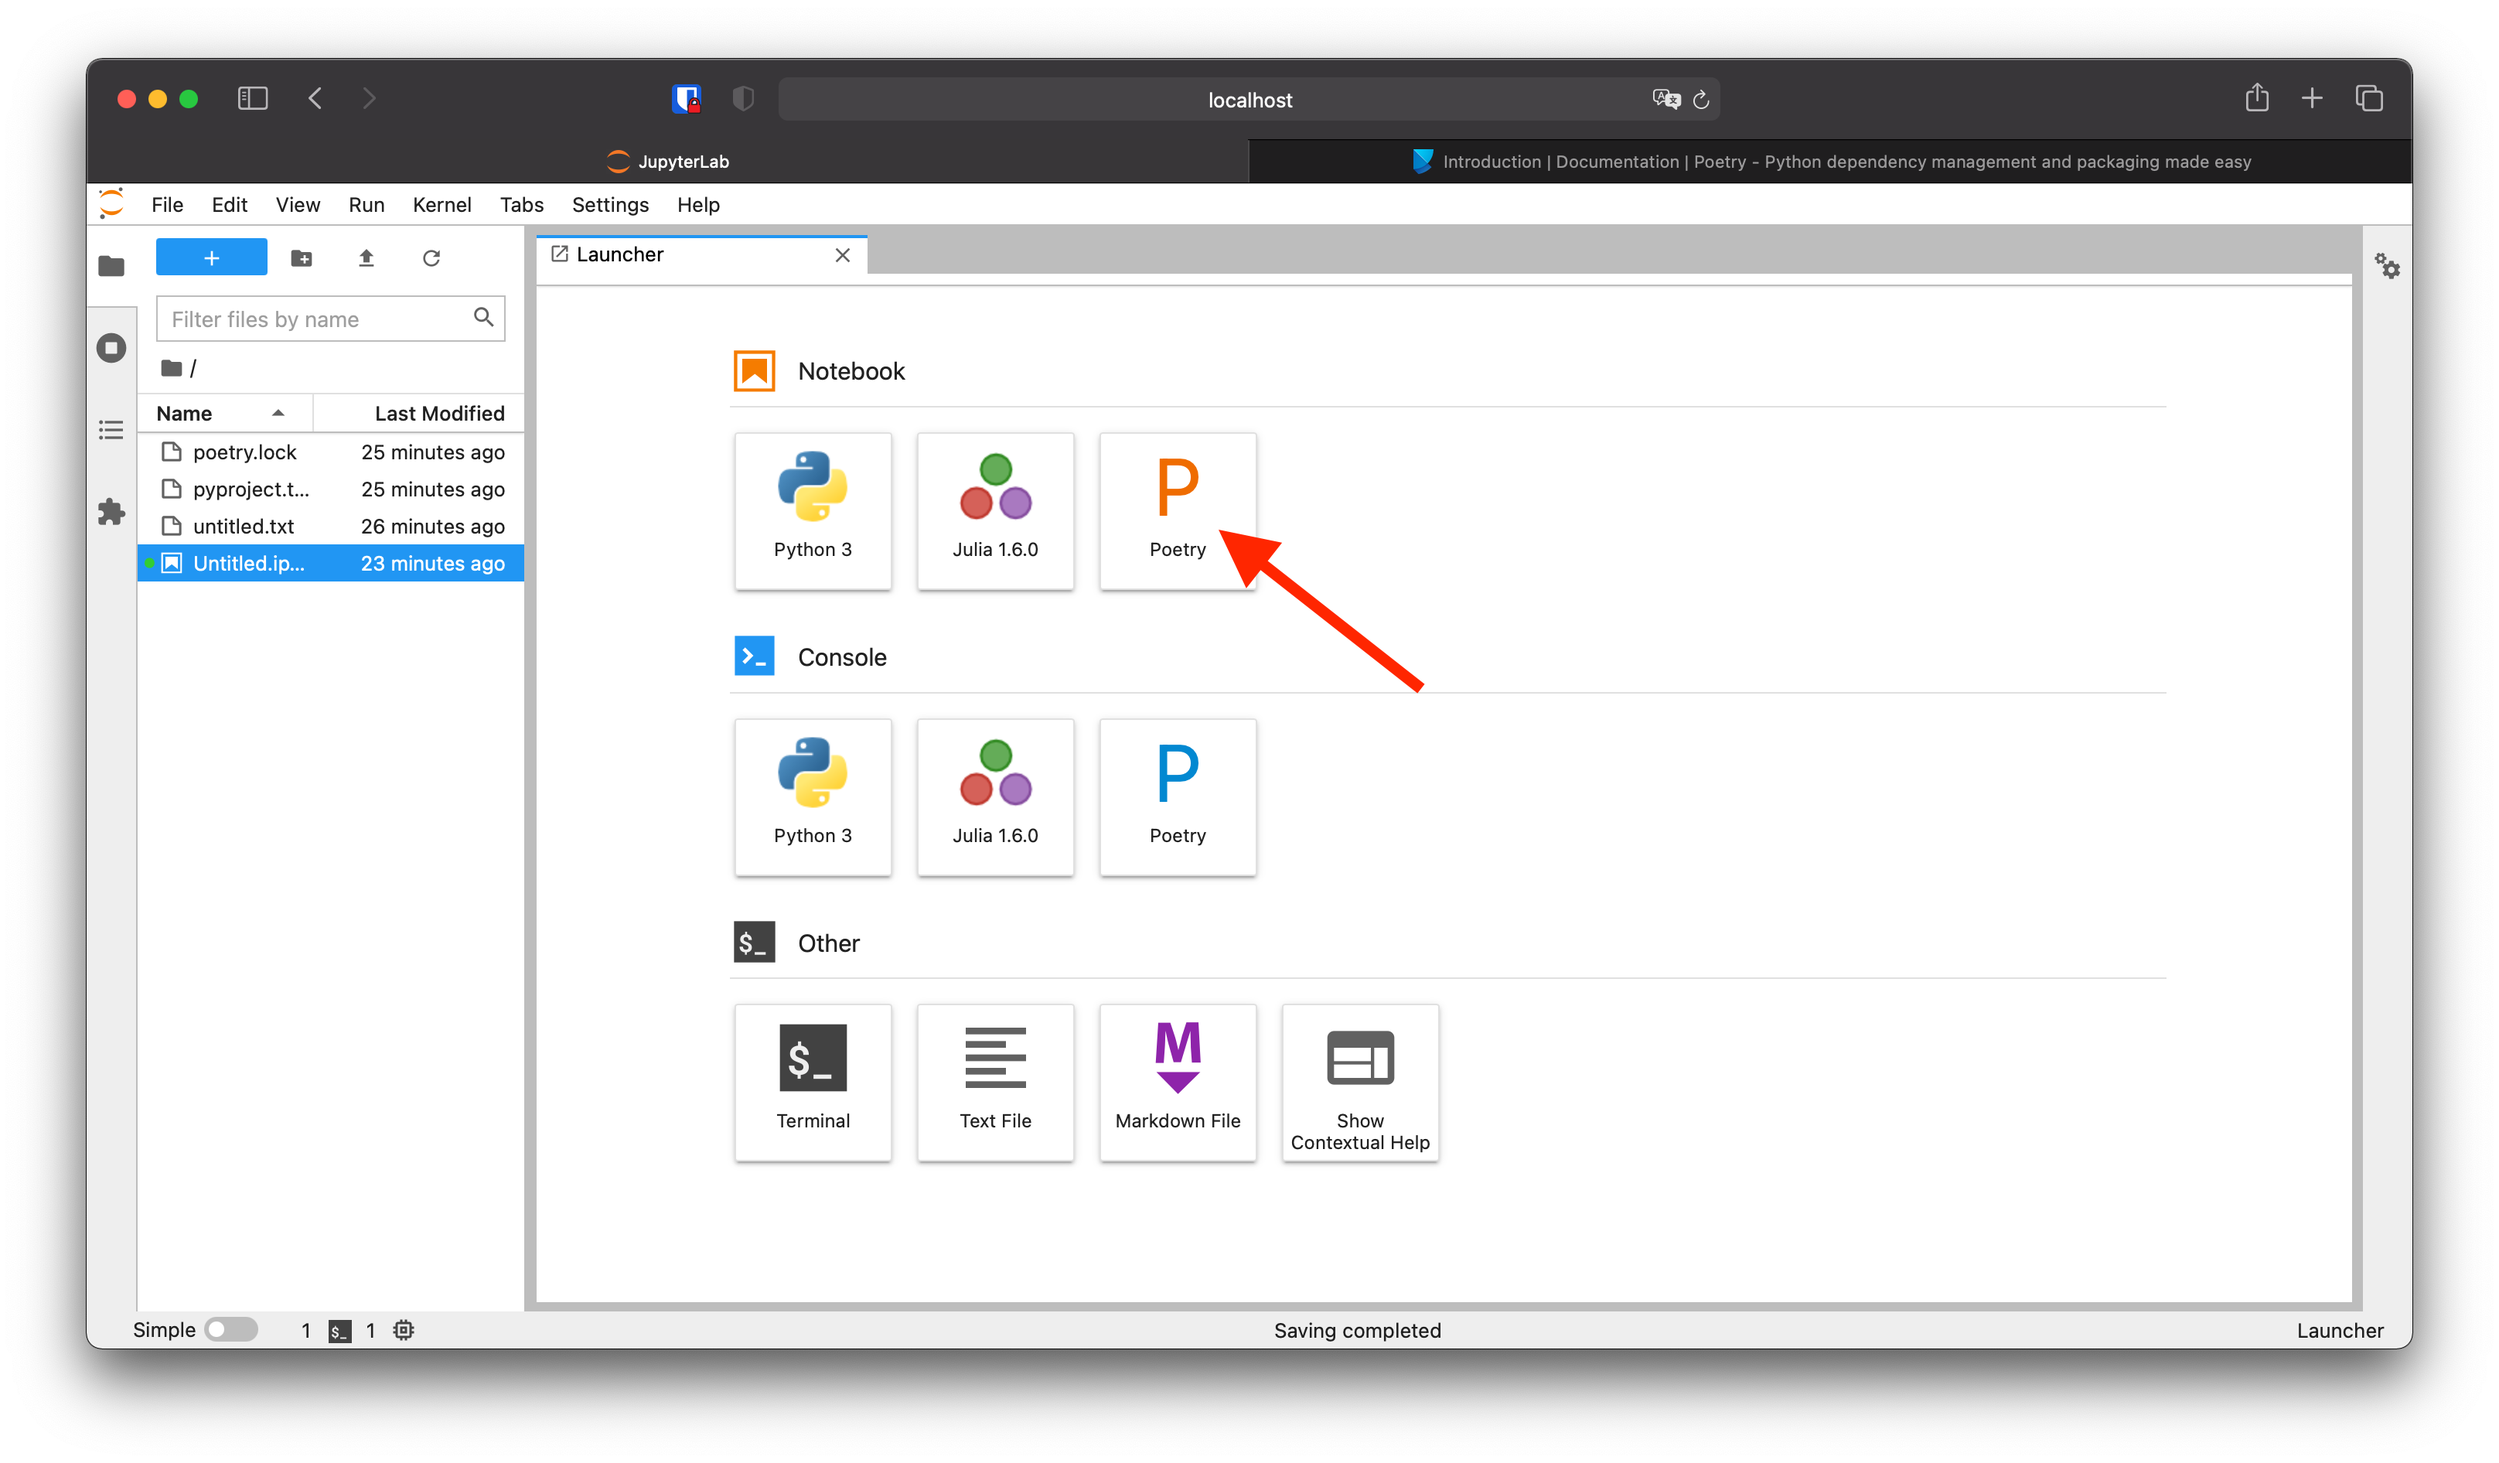
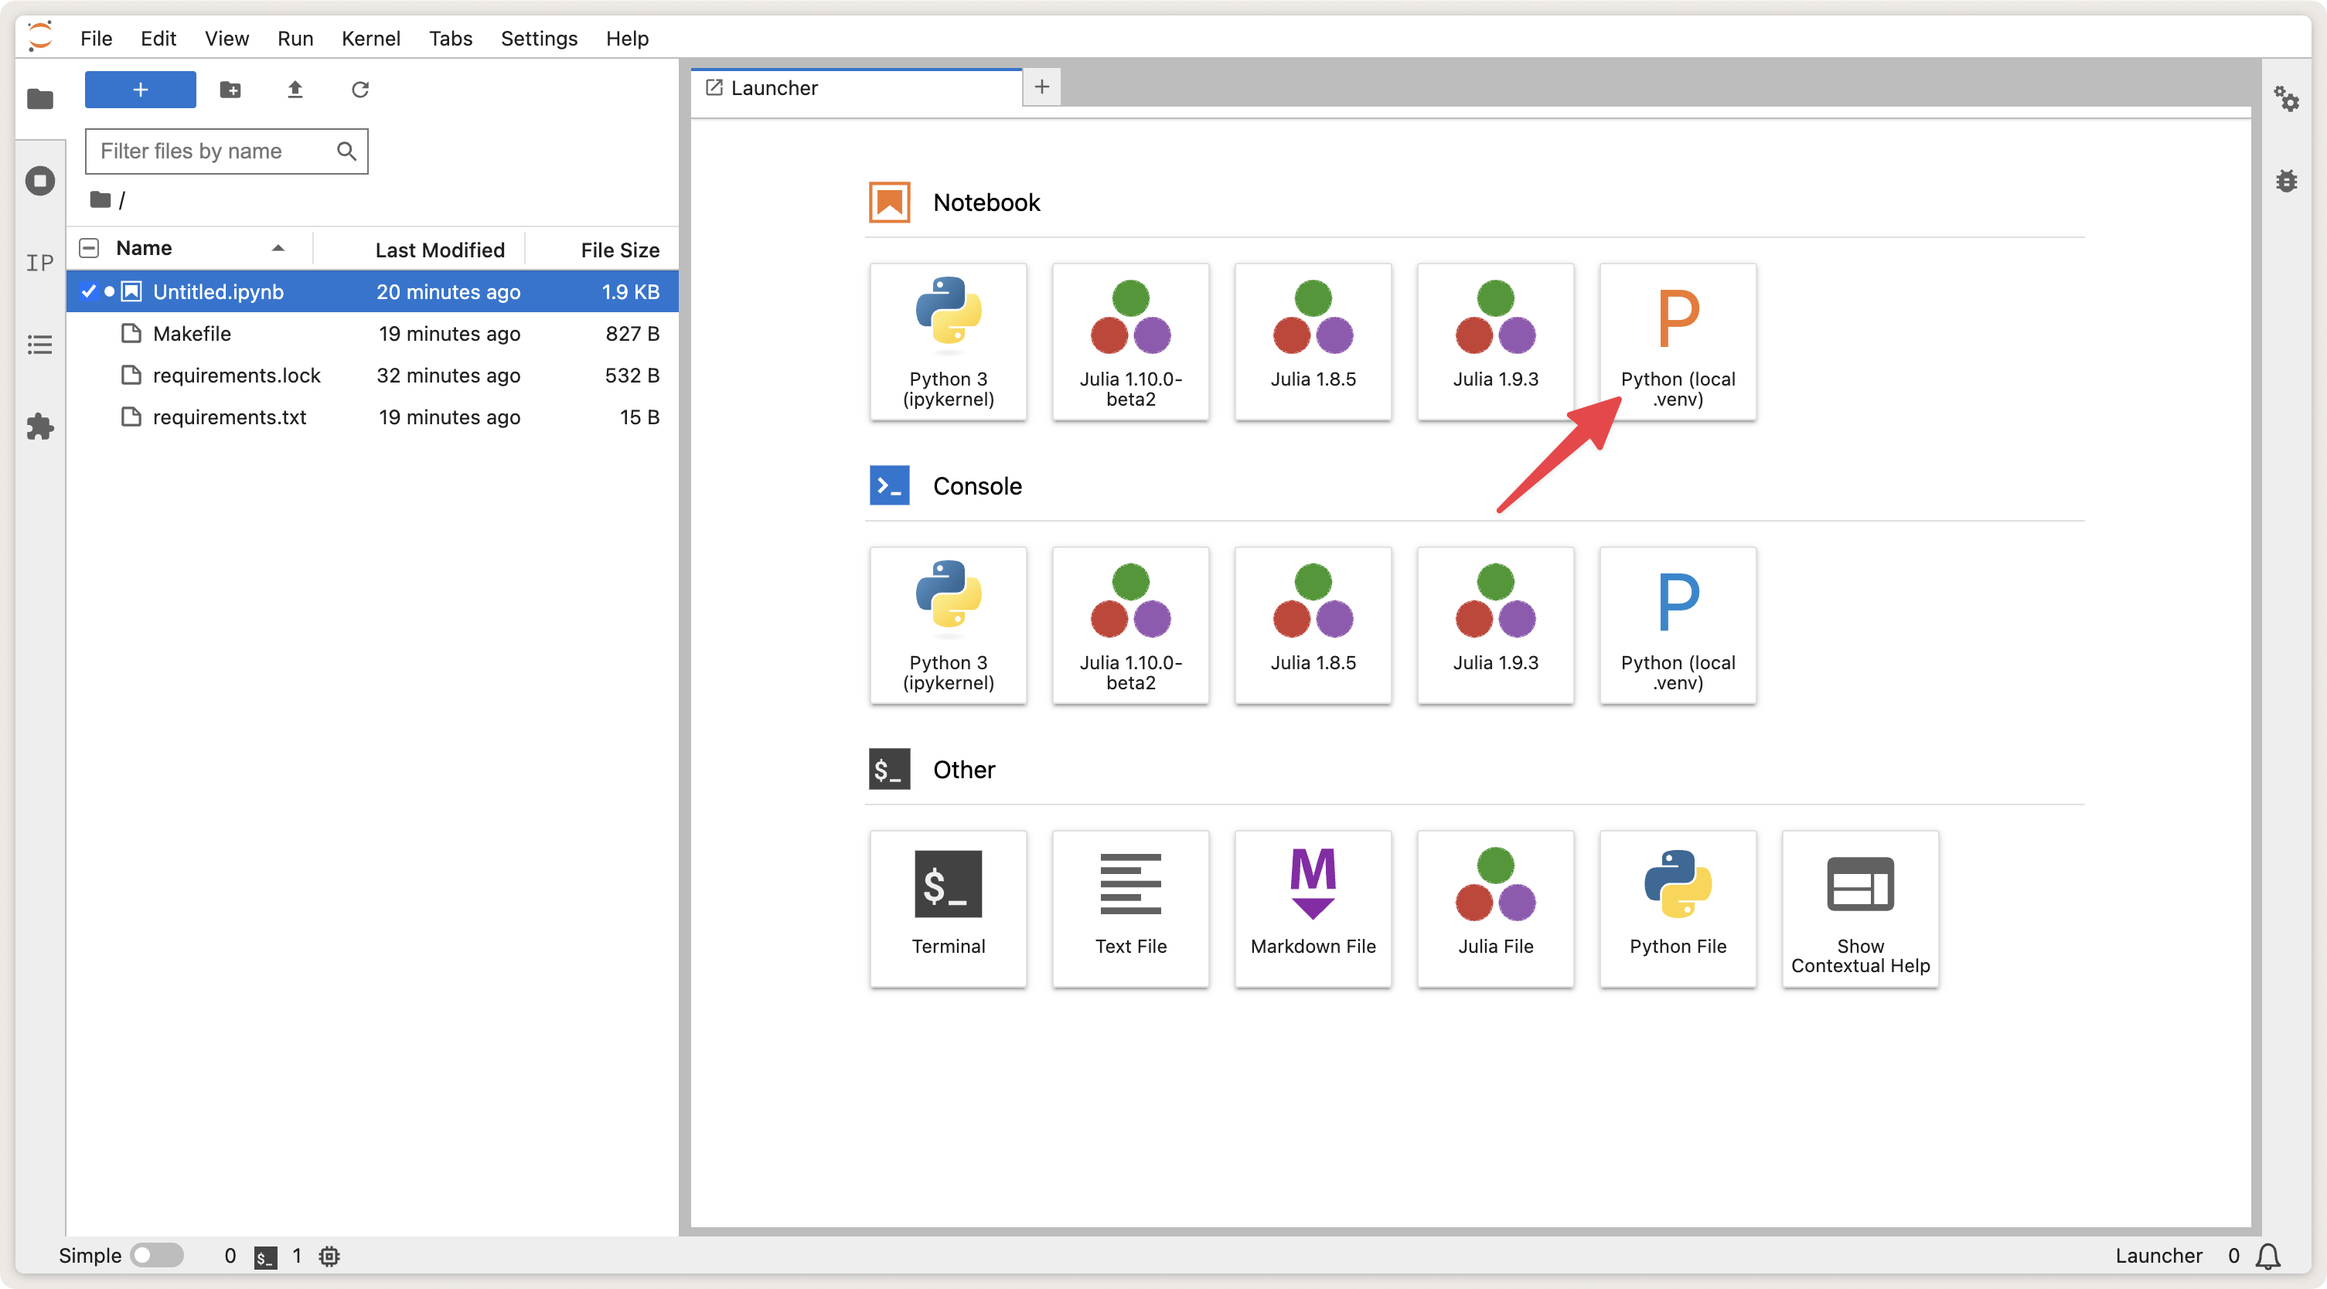
Update README

Changed region(s): [[0.0, 0.0, 1.0, 1.0], [0.3748, 0.6547, 0.8432, 0.8106], [0.6246, 0.3741, 0.6558, 0.4053]]

diff --git a/setup.py b/setup.py
@@ -38,8 +38,7 @@ with open(os.path.join(current_dir, "README.md")) as fp:
 
 setup(
     name="python-localvenv-kernel",
-    version="0.1.2",
-    # Package metadata
+    version="0.1.2+dev",
     author="Michael H. Goerz",
     author_email="mail@michaelgoerz.net",
     url="https://github.com/goerz/python-localvenv-kernel",

diff --git a/README.md b/README.md
@@ -1,29 +1,42 @@
-# Python Local-Venv Kernel
+# Python Local `.venv` Kernel
 
-A Jupyter kernel that delegates to the `.venv` folder in the notebook directory.
+[![Github](https://img.shields.io/badge/goerz-python--localvenv--kernel-blue.svg?logo=github)](https://github.com/goerz/python-localvenv-kernel)
+[![PyPI](https://img.shields.io/pypi/v/python-localvenv-kernel.svg)](https://pypi.org/project/python-localvenv-kernel/)
+[![Conda Version](https://img.shields.io/conda/vn/conda-forge/python-localvenv-kernel.svg)](https://anaconda.org/conda-forge/python-localvenv-kernel)
+[![Conda Recipe](https://img.shields.io/badge/recipe-conda--forge-green.svg)](https://github.com/conda-forge/python-localvenv-kernel-feedstock)
+[![MIT License](https://img.shields.io/badge/License-MIT-green.svg)](https://opensource.org/licenses/MIT)
 
-Derived from [`poetry-kernel`](https://github.com/pathbird/poetry-kernel), see the [FAQ](https://github.com/goerz/python-localvenv-kernel/blob/master/FAQ.md)
+A Jupyter kernel that delegates to `ipykernel` in the `.venv` environment of a project folder.
+
+Derived from [`poetry-kernel`](https://github.com/pathbird/poetry-kernel), see the [FAQ](https://github.com/goerz/python-localvenv-kernel/blob/master/FAQ.md).
+
 
 ## Installation
 
-The `python-local-venv` package must be installed into the environment as Jupyter itself.
+The `python-localvenv-kernel` package must be installed into the same environment as Jupyter itself.
 
 ```
-pip install python-local-venv
+pip install python-localvenv-kernel
 ```
 
 ```
-conda install python-local-venv
+conda install python-localvenv-kernel
 ```
+
 
 ## Usage
 
-* Jupyter and the `python-local-venv` package should be installed in the same environment
+* Jupyter and the `python-localvenv-kernel` package should be installed in the same environment
 * The project folder must have a virtual (project) environment instantiated in a subfolder `.venv`
 * The project environment must include the `ipykernel` package (but not `jupyter`)
 * Start Jupyter from the project folder
-* Select the "Python (local .venv)"
+* Select the "Python (local .venv)" kernel
+
+![Jupyter launcher screenshot (kernel selector)](.static/jupyter-screenshot.png)
+
+![Jupyter launcher screenshot (notebook)](.static/jupyter-screenshot-2.png)
+
 
 ## FAQ
 
-[See FAQ.md.](https://github.com/goerz/python-localvenv-kernel/blob/master/FAQ.md)
+[See `FAQ.md`.](https://github.com/goerz/python-localvenv-kernel/blob/master/FAQ.md)
